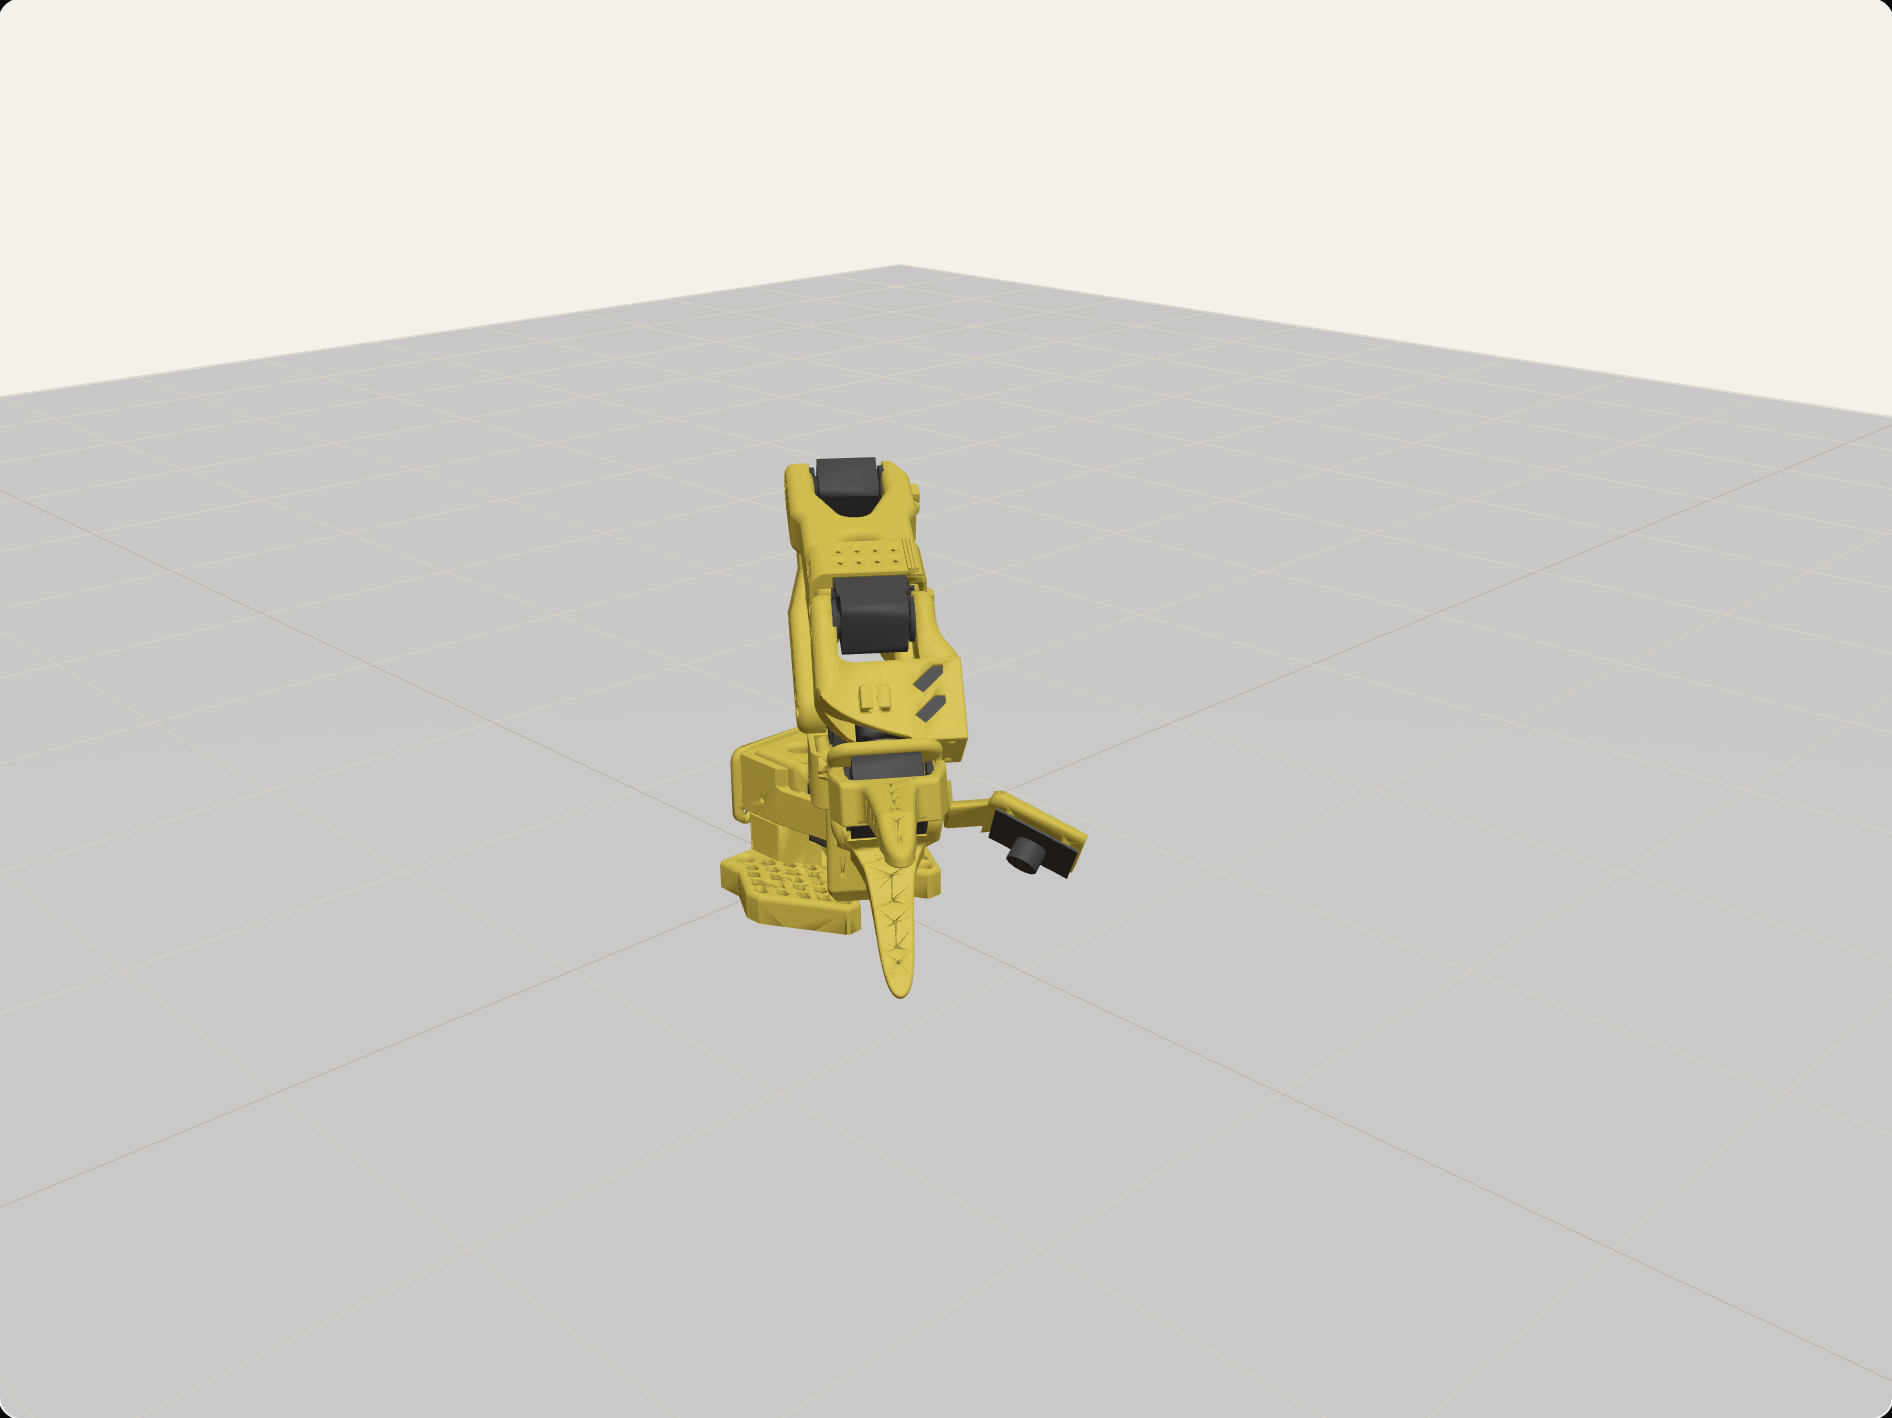
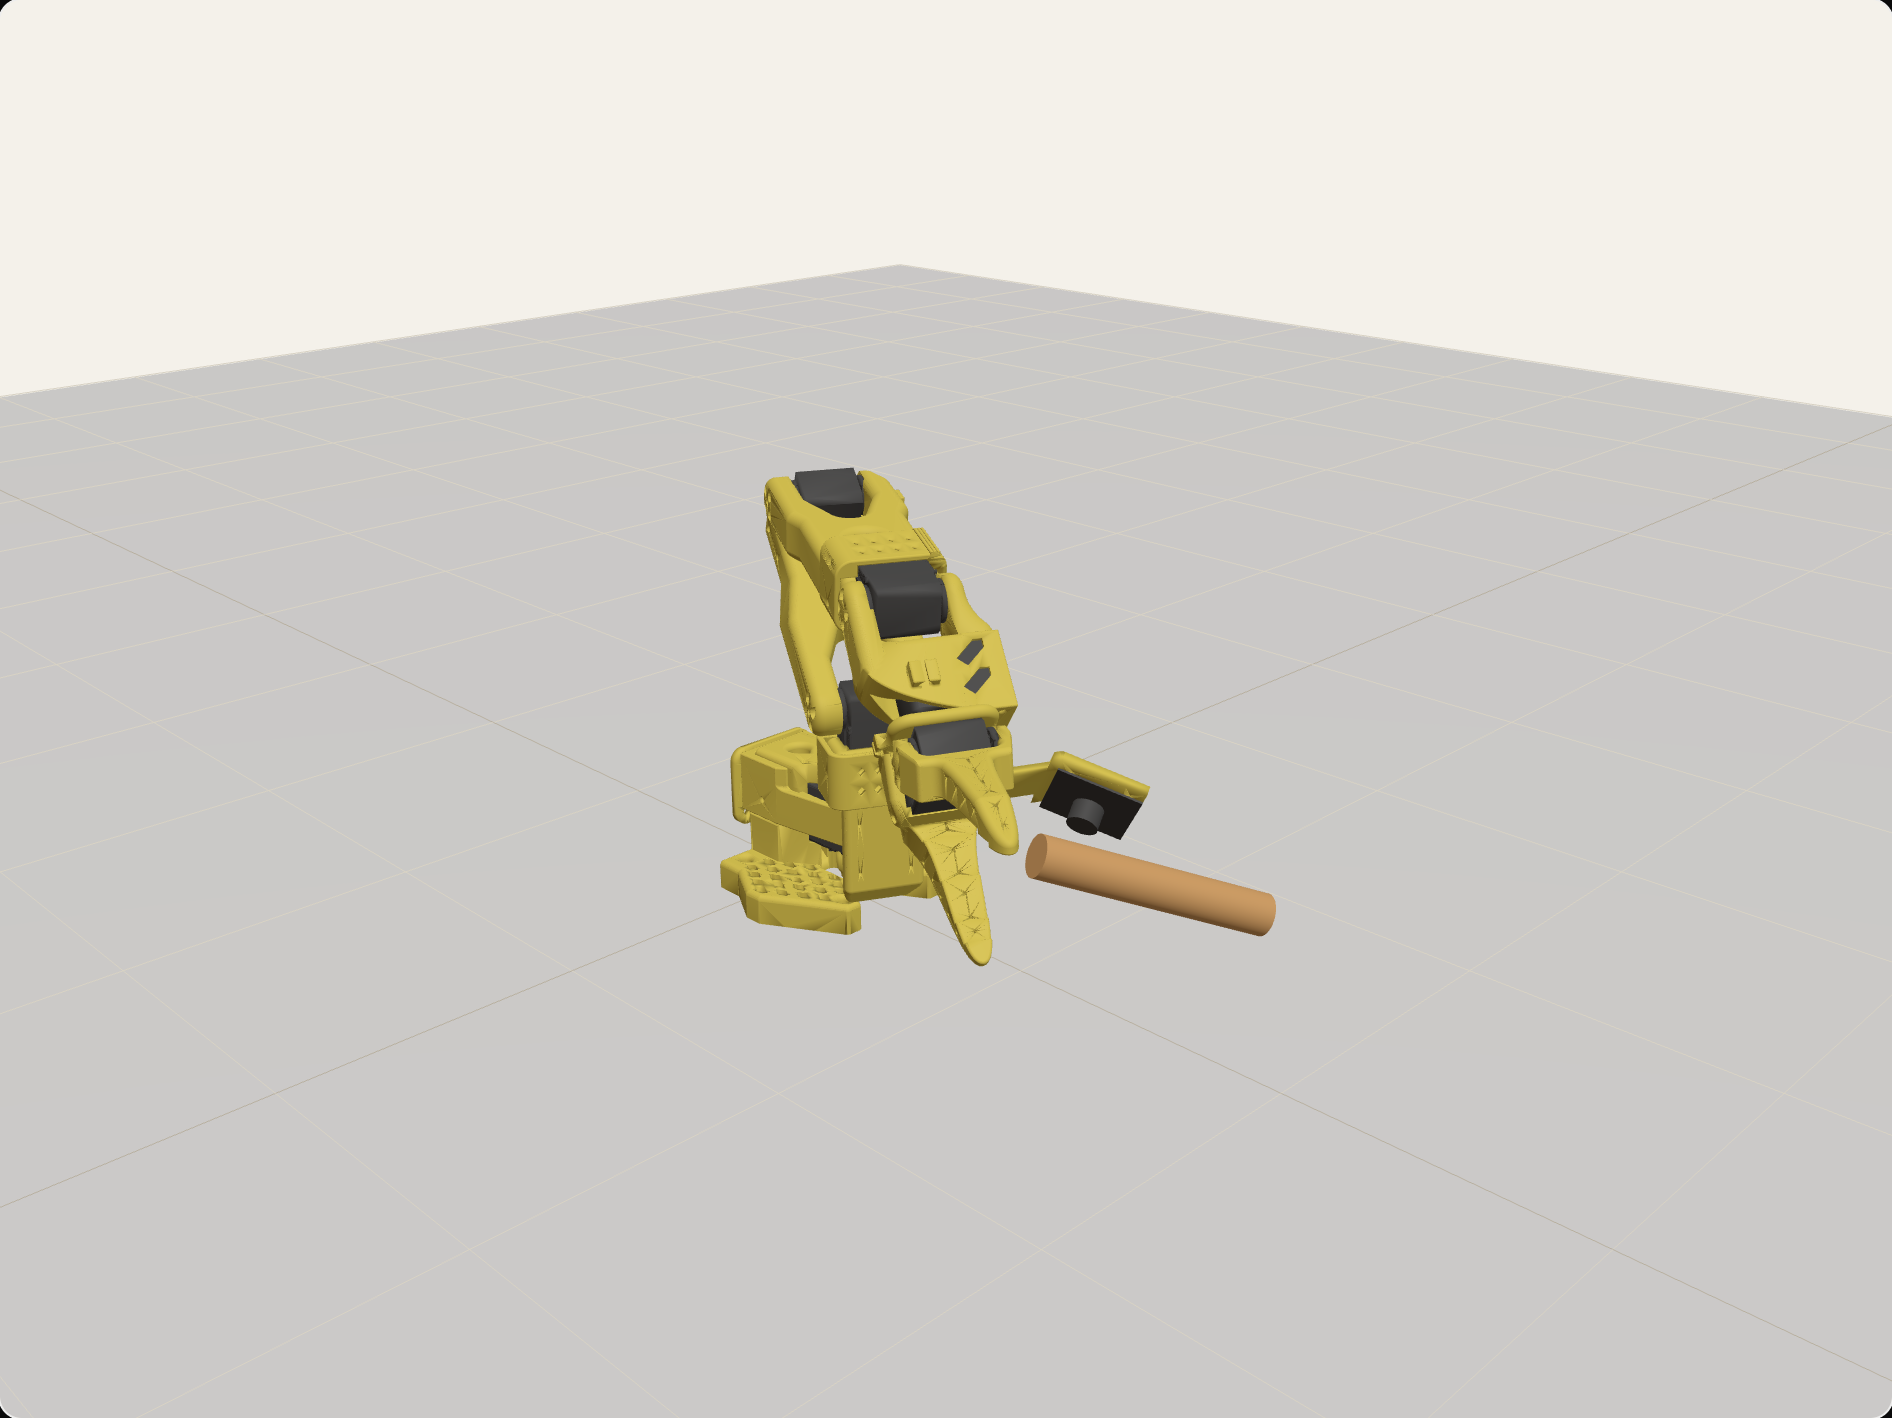
docs: Devpost thumbnail redone for orbit mode
The stage capture is now the SO-101 at 0 g with the free tube drifting; the tagline, the interview bubble and the flow chips say Earth and orbit.

— gib

Changed region(s): [[0.4054, 0.3103, 0.686, 0.7137]]

diff --git a/docs/submission/thumbnail.html b/docs/submission/thumbnail.html
@@ -21,7 +21,7 @@
   h1 { font-family: var(--disp); font-weight: 700; font-size: 176px; line-height: .92; letter-spacing: -.02em; color: var(--ink-deep); margin-top: 26px; font-variation-settings: "opsz" 144; }
   h1 .u { position: relative; display: inline-block; z-index: 0; }
   h1 .u::after { content: ""; position: absolute; left: 4px; right: 6px; bottom: 14px; height: 18px; background: var(--sun); z-index: -1; transform: rotate(-1deg); }
-  .sub { margin-top: 30px; width: 720px; font-size: 40px; line-height: 1.28; color: var(--ink); }
+  .sub { margin-top: 30px; width: 760px; font-size: 37px; line-height: 1.28; color: var(--ink); }
   .sub b { font-weight: 600; color: var(--ink-deep); }
   .flow { position: absolute; left: 96px; bottom: 92px; display: flex; align-items: center; gap: 18px; font-family: var(--mono); font-size: 26px; }
   .chip { padding: 12px 22px; border: 2.5px solid var(--ink); border-radius: 999px; background: var(--paper-card); color: var(--ink-deep); }
@@ -44,13 +44,13 @@
 <div class="page">
   <div class="kicker">Nebius × NVIDIA Global AI Hackathon · <b>Physical AI</b></div>
   <h1><span class="u">Understudy</span></h1>
-  <p class="sub"><b>Watch</b> a person do a task once. <b>Interview</b> them. <b>Rehearse</b> it on a simulated robot. <b>Export</b> the dataset.</p>
+  <p class="sub"><b>Watch</b> an astronaut do a task once. <b>Interview</b> them. <b>Rehearse</b> it on a simulated robot, on Earth and in orbit. <b>Export</b> the dataset.</p>
 
   <div class="stage">
     <div class="card">
       <img src="arm.png" alt="SO-101 arm rehearsing in MuJoCo in the browser">
-      <div class="tag"><b>live</b> · MuJoCo in the browser · SO-101</div>
-      <div class="foot">24 rollouts · blind vs sensed · perception budget per axis</div>
+      <div class="tag"><b>live</b> · SO-101 in MuJoCo · <b>0 g</b></div>
+      <div class="foot">24 rollouts · blind vs sensed · Earth, Moon, orbit</div>
     </div>
     <svg class="human" viewBox="0 0 420 560" fill="none" stroke-linecap="round" stroke-linejoin="round">
       <!-- skeleton lines -->
@@ -78,13 +78,13 @@
         <rect x="330" y="300" width="18" height="90" rx="6" fill="#efb340" stroke="#16283f" stroke-width="5" transform="rotate(20 339 345)"/>
       </g>
     </svg>
-    <div class="bubble">“How tight is the rack? 3 mm or 10?”<small>Nemotron 3 Super asks what the clip can’t show</small></div>
+    <div class="bubble">“Once you let go, does the pillow hold the film, or does it drift?”<small>Nemotron 3 Super asks what the clip can’t show</small></div>
   </div>
 
   <div class="flow">
     <span class="chip">watch</span><span class="arrow">→</span>
     <span class="chip">interview</span><span class="arrow">→</span>
-    <span class="chip hot">rehearse</span><span class="arrow">→</span>
+    <span class="chip hot">rehearse · 1 g / 0 g</span><span class="arrow">→</span>
     <span class="chip">export</span>
   </div>
   <div class="corner">Nemotron 3.5 Super VL · Nano · Super · Ultra<br>on Nebius Token Factory</div>

diff --git a/docs/submission/README.md b/docs/submission/README.md
@@ -1,4 +1,4 @@
 # Submission assets
 
-- `thumbnail.jpg` / `thumbnail.png`: the Devpost thumbnail, 1800 x 1200 (3:2), riso-paper style. Rendered from `thumbnail.html` with headless Edge (`scripts` not needed: open the HTML at 1800 x 1200 and screenshot). `arm.png` is a capture of the SO-101 on the rehearsal stage, mid-wave, used by the page.
+- `thumbnail.jpg` / `thumbnail.png`: the Devpost thumbnail, 1800 x 1200 (3:2), riso-paper style. Rendered from `thumbnail.html` with headless Edge (`scripts` not needed: open the HTML at 1800 x 1200 and screenshot). `arm.png` is a capture of the SO-101 on the rehearsal stage in orbit mode (0 g, mid-wave, the free tube nudged so it drifts), used by the page.
 - Devpost text and the answers to the organiser questions: `../SUBMIT.md`.
